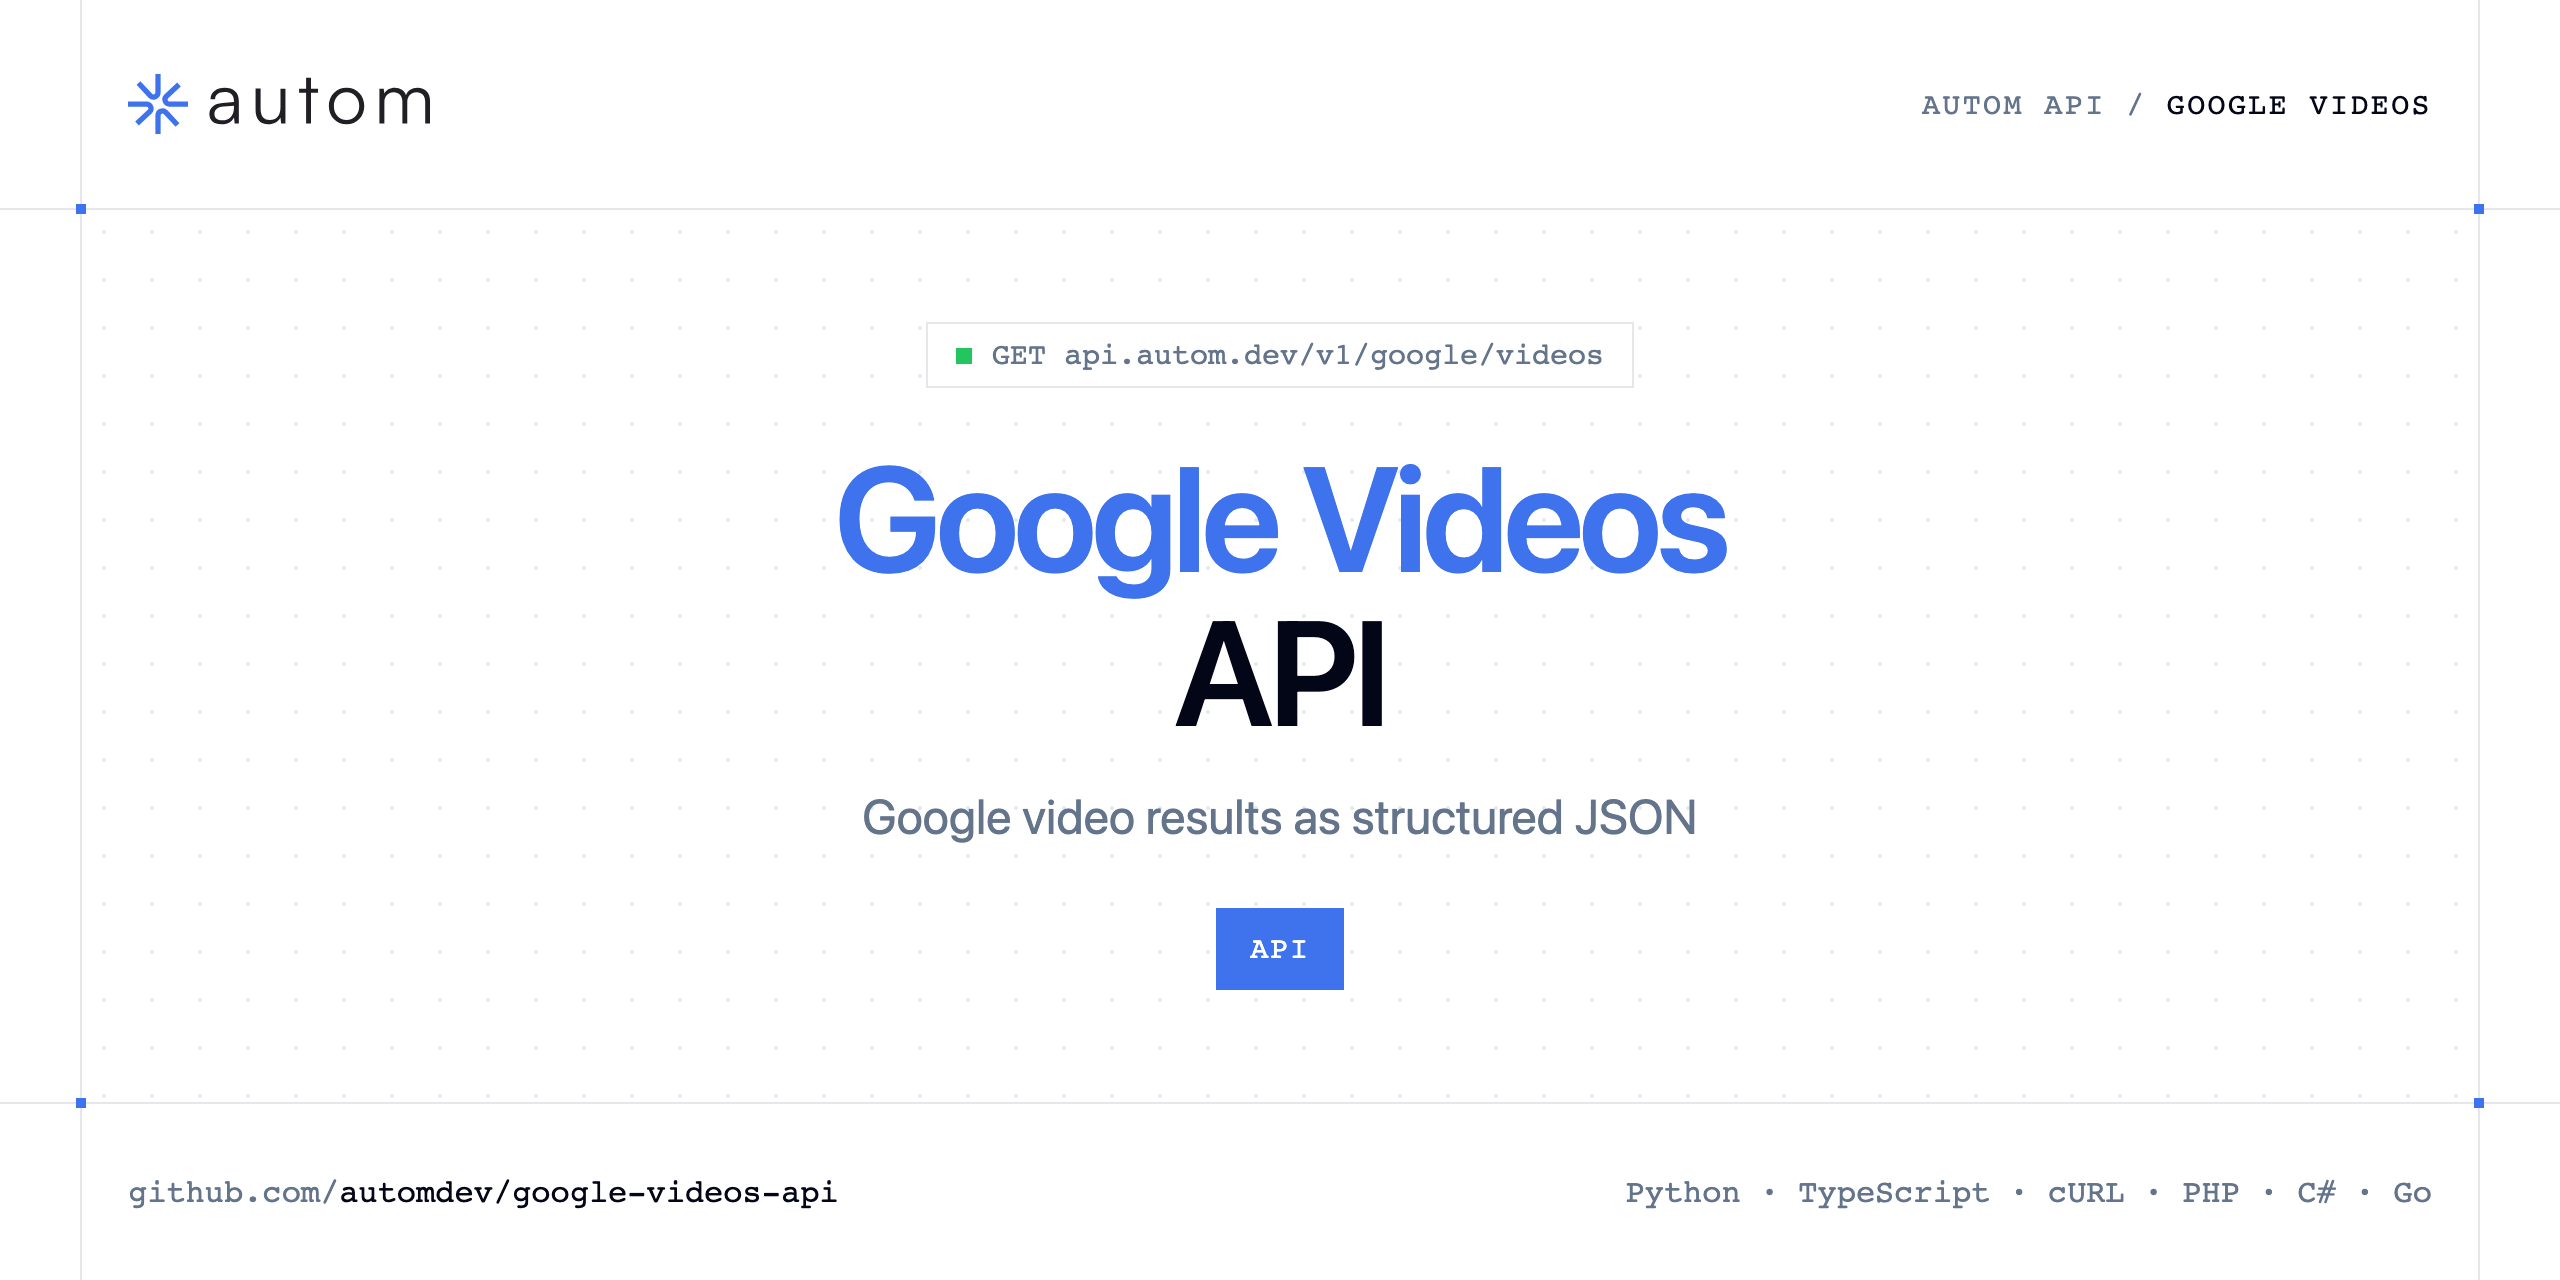
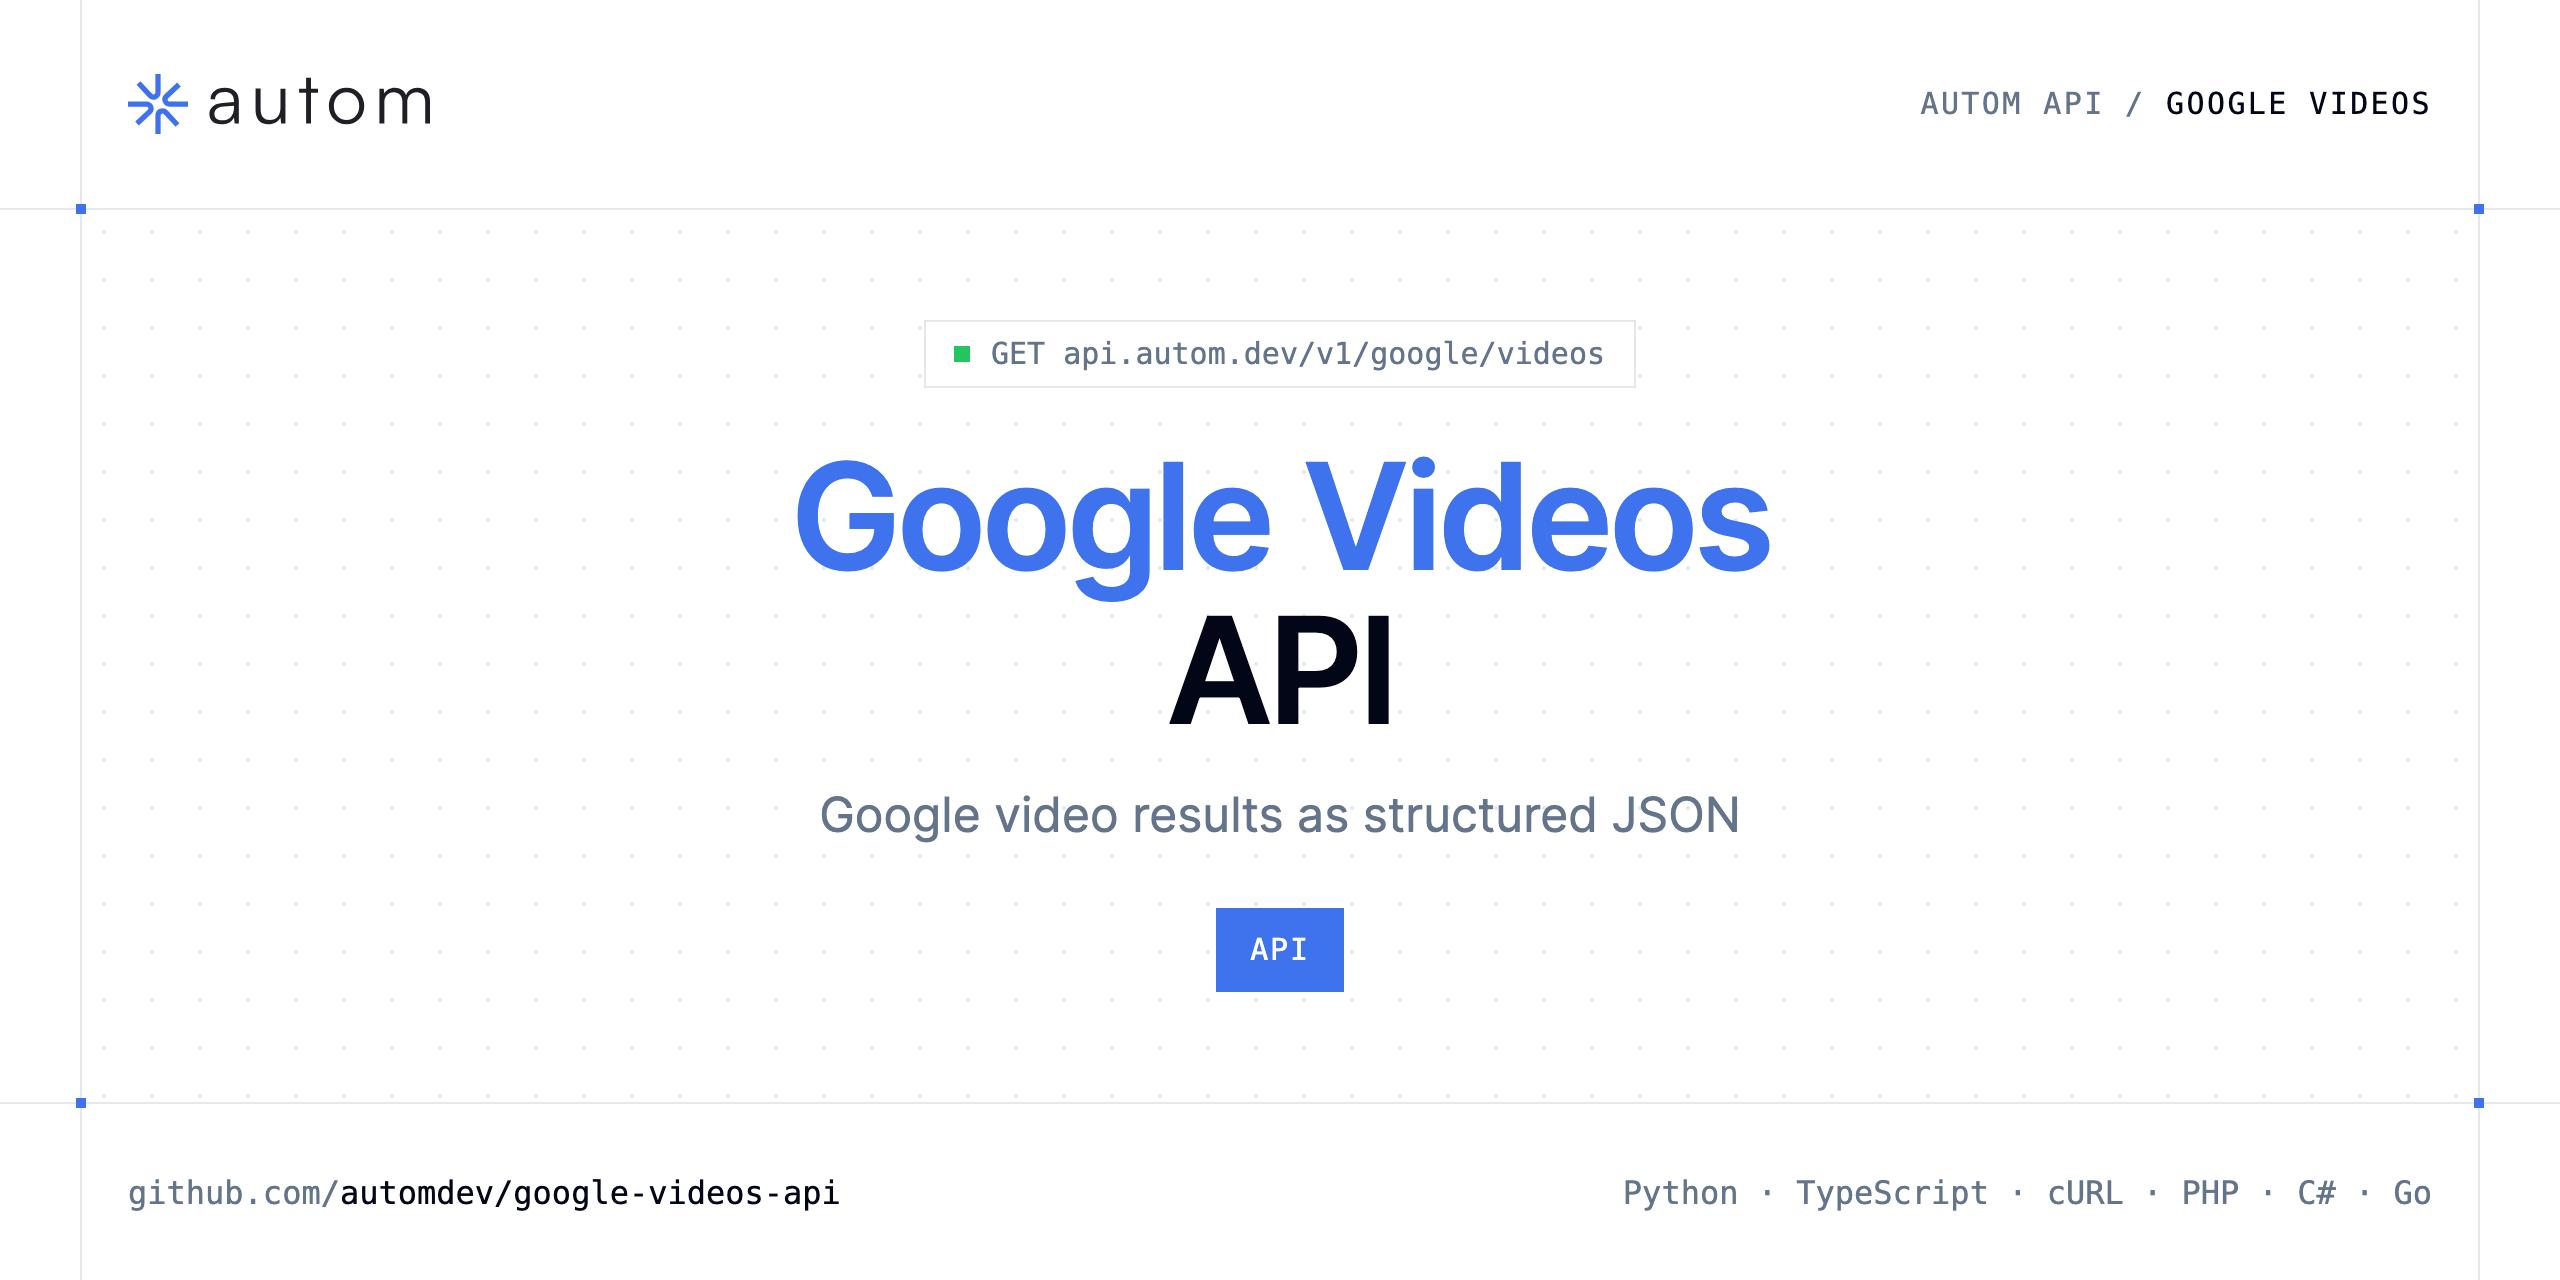
Update Google Videos API examples and docs

diff --git a/README.md b/README.md
@@ -56,7 +56,6 @@ Search Google Videos via API and retrieve structured video results with metadata
 | `hl` | query | string | — | Language to use for the search (two-letter language code). |
 | `page` | query | number | ✅ | Page number for pagination (1 = first page). |
 | `num` | query | number | — | Maximum number of results per page (e.g. 10). |
-| `safe` | query | string | — | Adult content filter. `active` enables Google SafeSearch; `off` disables it. Omit to use Google default. |
 
 ### Python example
 
